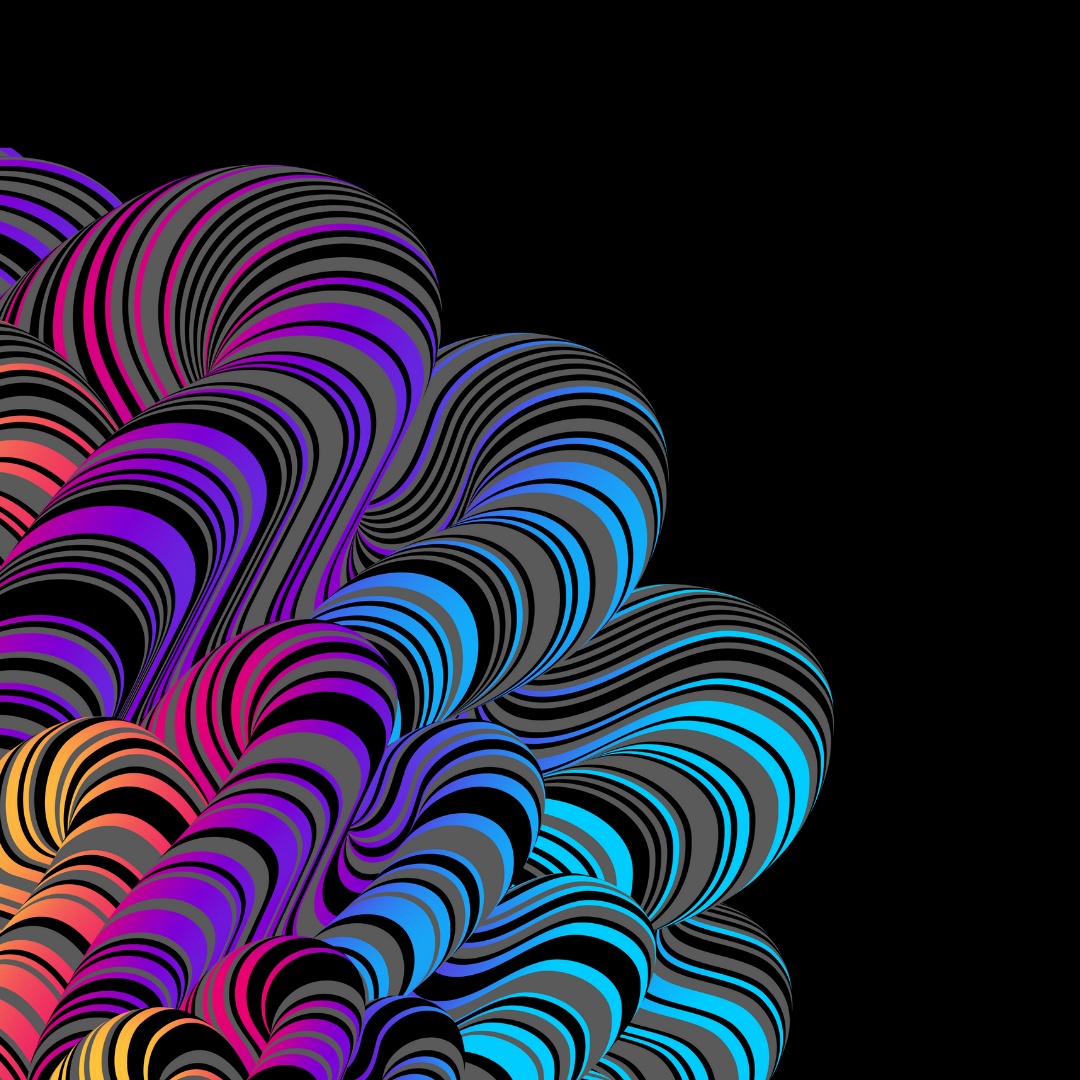
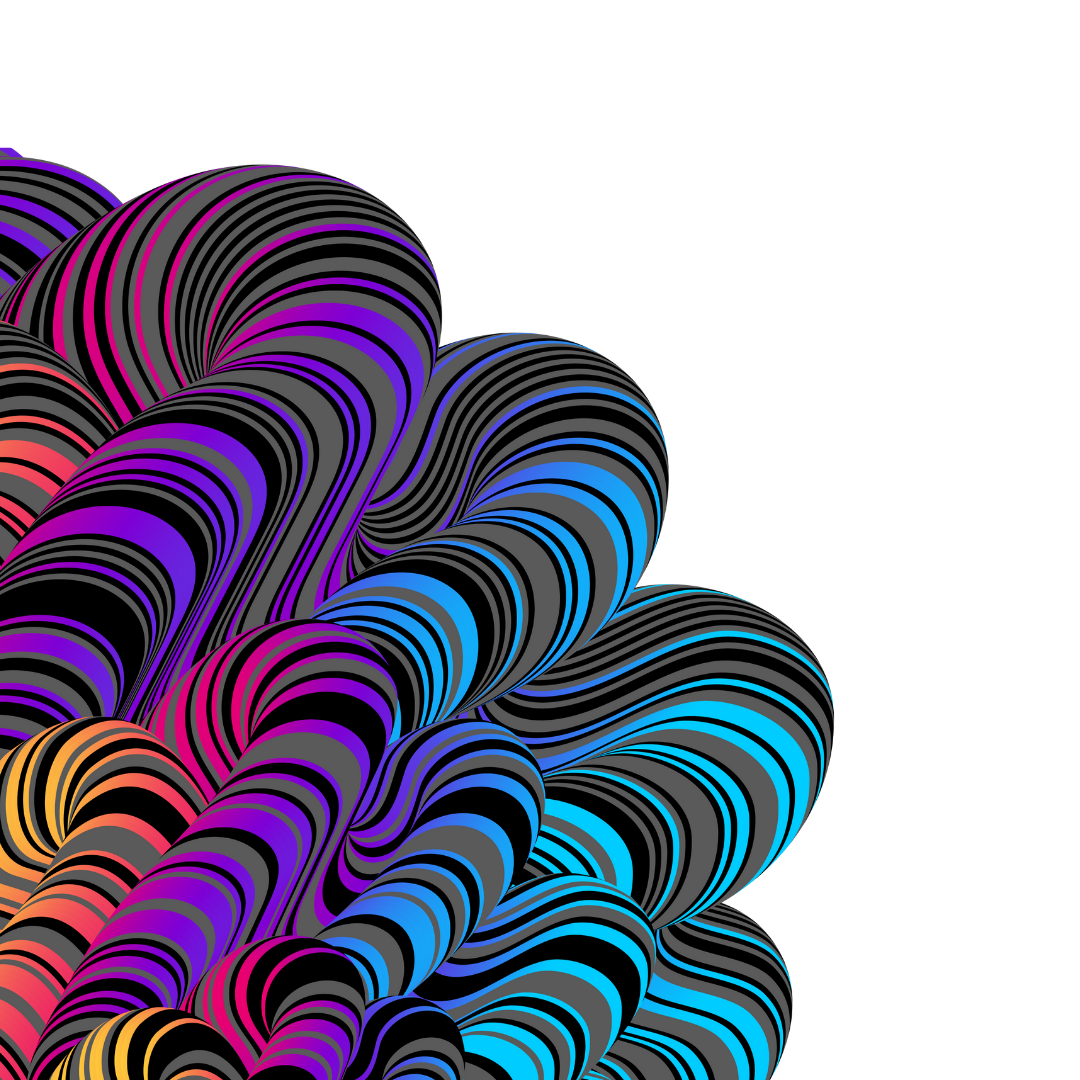
Sponsors section completed

diff --git a/src/components/slide/slide.tsx b/src/components/slide/slide.tsx
@@ -1,0 +1,68 @@
+import { motion } from 'framer-motion'
+import './slide.css'
+import { useRef, useEffect, useState } from 'react'
+
+function Slide() {
+
+    const [width, setWidth] = useState(0)
+    const carousel = useRef<Object>() ?? {}
+    console.log(carousel)
+
+    useEffect(() => {
+        setWidth(carousel.current.scrollWidth - carousel.current.offsetWidth)
+    }, []);
+
+    return (
+        <>
+            <motion.div ref={carousel} className='carousel  -mt-32'
+                whileTap={{ cursor: "grabbing" }}
+            >
+                <img src="./src/assets/arrow_left.png" alt="" className=' w-[300px] absolute bottom-0 left-0' />
+                <img src="./src/assets/arrow_right.png" alt="" className=' w-[300px] absolute bottom-0 right-0' />
+
+
+                <motion.div
+                    drag="x"
+                    dragConstraints={{ right: 0, left: -width }}
+                    className='inner-carousel'
+                >
+
+                    <motion.div className='item'>
+                        <img src="./src/assets/samsung-logo.svg" width="200px"></img>
+                        <motion.div className='item-content relative'>
+                            <h3 className='py-20 text-center robot'>Junte-se a nós no nosso minigame de <span>tiro ao alvo</span>! Acerte os produtos que aparecem na tela e ganhe um cupom de desconto exclusivo nas lojas Samsung! </h3>
+                        </motion.div>
+
+                    </motion.div>
+
+                    <motion.div className='item'>
+                        <img src="./src/assets/riot.svg" width="200px"></img>
+                        <motion.div className='item-content'>
+                            <h3 className='py-20 text-center robot'>Encontre-nos no metaverso, jogue com seus amigos um jogo da memória com temática de <span>LoR</span> e ganhe uma skin exclusiva! </h3>
+                        </motion.div>
+                    </motion.div>
+
+                    <motion.div className='item'>
+                        <img src="./src/assets/burger-king.svg" width="160px"></img>
+                        <motion.div className='item-content'>
+                            <h3 className='py-20 text-center robot'>Monte um <span>Whoper</span> corretamente e ganhe um cupom para trocar em um milkshake na compra de um combo Whopper! </h3>
+                        </motion.div>
+                    </motion.div>
+
+                    <motion.div className='item'>
+                        <img src="./src/assets/Louis.svg" width="200px"></img>
+                        <motion.div className='item-content'>
+                            <h3 className='py-20 text-center robot'>Junte 3 bolhas iguais, e ganhe uma <span>blusa exclusiva</span> para o seu avatar, e retire a mesma blusa em uma de <span>nossas lojas!</span> </h3>
+                        </motion.div>
+                    </motion.div>
+
+                   
+
+                </motion.div>
+            </motion.div>
+        </>
+    )
+
+}
+
+export default Slide;

diff --git a/src/index.css b/src/index.css
@@ -12,6 +12,24 @@
   src: url("./assets/fonts/GlacialIndifference-Bold.otf") format("otf");
 }
 
+/* width */
+::-webkit-scrollbar {
+  width: 10px;
+}
+
+/* Track */
+::-webkit-scrollbar-track {
+  background: rgb(159,53,199);
+  background: linear-gradient(180deg, rgba(159,53,199,1) 31%, rgba(124,88,210,1) 48%, rgba(96,116,219,1) 80%, rgba(51,161,233,1) 95%, rgba(81,161,185,1) 100%);
+}
+
+/* Handle */
+::-webkit-scrollbar-thumb {
+  border-radius: 12px;
+  background: rgb(159,53,199);
+  background: linear-gradient(180deg, rgba(159,53,199,1) 31%, rgba(124,88,210,1) 48%, rgba(96,116,219,1) 80%, rgba(51,161,233,1) 95%, rgba(81,161,185,1) 100%);
+}
+
 *, 
 *:after, 
 *:before {
@@ -25,19 +43,23 @@
 :root {
   scroll-behavior: smooth;
   font-family: "Glacial", sans-serif;
-  font-size: 16px;
+  font-size: 18px;
   line-height: 24px;
   font-weight: 400;
-
-  color-scheme: light dark;
+  
+  /* color-scheme: light dark; */
   color: white;
   background-color: #000;
-
+  
   font-synthesis: none;
   text-rendering: optimizeLegibility;
   -webkit-font-smoothing: antialiased;
   -moz-osx-font-smoothing: grayscale;
   -webkit-text-size-adjust: 100%;
+}
+
+.robot{
+  font-family: 'Roboto', sans-serif;
 }
 
 a {
@@ -55,3 +77,39 @@ h1 {
 }
 
 
+.icon-scroll,
+.icon-scroll:before{
+  position: absolute;
+  left: 50%;
+}
+.icon-scroll{
+  width: 40px;
+  height: 70px;
+  margin-left: -20px;
+  top: 92%;
+  margin-top: -35px;
+  box-shadow: inset 0 0 0 1px #fff;
+  border-radius: 25px;
+}
+.icon-scroll:before{
+  content: '';
+  width: 8px;
+  height: 8px;
+  background: #fff;
+  margin-left: -4px;
+  top: 8px;
+  border-radius: 4px;
+  animation-duration: 1.5s;
+  animation-iteration-count: infinite;
+  animation-name: scroll;
+}
+
+@keyframes scroll{
+  0%{
+    opacity: 1;
+    }
+  100%{
+    opacity: 0;
+    transform: translateY(46px);
+    }
+}

diff --git a/src/components/sponsors.tsx b/src/components/sponsors.tsx
@@ -1,16 +1,17 @@
 import React from 'react'
+import Slide from './slide/slide';
 
 function Sponsors() {
 
     return (
         <>
-            <div className="max-w-screen h-screen flex flex-col lg:flex-row relative items-center justify-center">
-
-
-                <div className='icon-scroll'></div>
+            <div className="max-w-screen min-h-screen flex flex-col relative items-center  justify-center">
+                <img src="./src/assets/patrocinadores.gif"/> 
 
                 <img src="./src/assets/clouds_inverted.png" alt="clouds" className="absolute top-0 left-0 max-h-[476px] lg:max-h-[400px] w-auto" />
                 <img src="./src/assets/clouds_mirror_inverted.png" alt="clouds" className="absolute top-0 right-0 hidden lg:block lg:max-h-[400px] w-auto" />
+
+                <Slide/>
             </div>
         </>
     )

diff --git a/src/components/slide/slide.css b/src/components/slide/slide.css
@@ -1,0 +1,45 @@
+.item{
+    display: flex;
+    flex-direction: column;
+    justify-content: center;
+    align-items: center;
+
+    min-height: 10rem;
+    min-width: 50%;
+    padding: 0 40px 10rem 0;
+}
+
+.item img {
+    pointer-events: none;
+    min-height: 200px;
+}
+
+.item-content{
+    height: 100%;
+    width: 100%;
+    display: flex;
+    flex-direction: column;
+    justify-content: space-around;
+}
+.item-content span{
+    font-weight: bold;
+    font-family: "Roboto";
+    color: #15bff3;
+}
+
+.inner-carousel{
+    max-width: 1300px;
+    display: flex;
+}
+
+.carousel { 
+    max-width: 1400px;
+    cursor: grab;
+    overflow-x: hidden;
+}
+
+@media (min-width: 1080px) {
+    .item-content{
+        flex-direction: row;
+    }
+}

diff --git a/src/components/masthead.tsx b/src/components/masthead.tsx
@@ -5,8 +5,8 @@ function Masthead() {
     return (
         <>
             <div className="max-w-screen h-screen flex flex-col lg:flex-row relative items-center justify-center">
-                <img src="./src/assets/the_exp.png" alt="The Experience" className='max-h-[476px] lg:max-h-[500px] w-auto' />
-                <h1 className='invisible absolute'>The Experience Festival</h1>
+                <img src="./src/assets/the_exp.png" alt="The Experience Festival - Uma experiência metaverso" className='max-h-[476px] lg:max-h-[870px] w-auto' />
+                <h1 className='invisible absolute'>The Experience Festival - Uma experiência metaverso</h1>
 
 
                 <div className='icon-scroll'></div>

diff --git a/index.html b/index.html
@@ -2,8 +2,11 @@
 <html lang="pt-br">
   <head>
     <meta charset="UTF-8" />
-    <link rel="icon" type="image/svg+xml" href="/vite.svg" />
+    <link rel="icon" type="image/svg+xml" href="/src/assets/the_exp.png" />
     <meta name="viewport" content="width=device-width, initial-scale=1.0" />
+    <link rel="preconnect" href="https://fonts.googleapis.com">
+    <link rel="preconnect" href="https://fonts.gstatic.com" crossorigin>
+    <link href="https://fonts.googleapis.com/css2?family=Roboto:wght@300;400;700;900&display=swap" rel="stylesheet">
     <title>The Experience Festival</title>
   </head>
   <body>

diff --git a/src/App.tsx b/src/App.tsx
@@ -1,4 +1,4 @@
-import './App.css'
+
 import Masthead from './components/masthead'
 import Sponsors from './components/sponsors'
 
